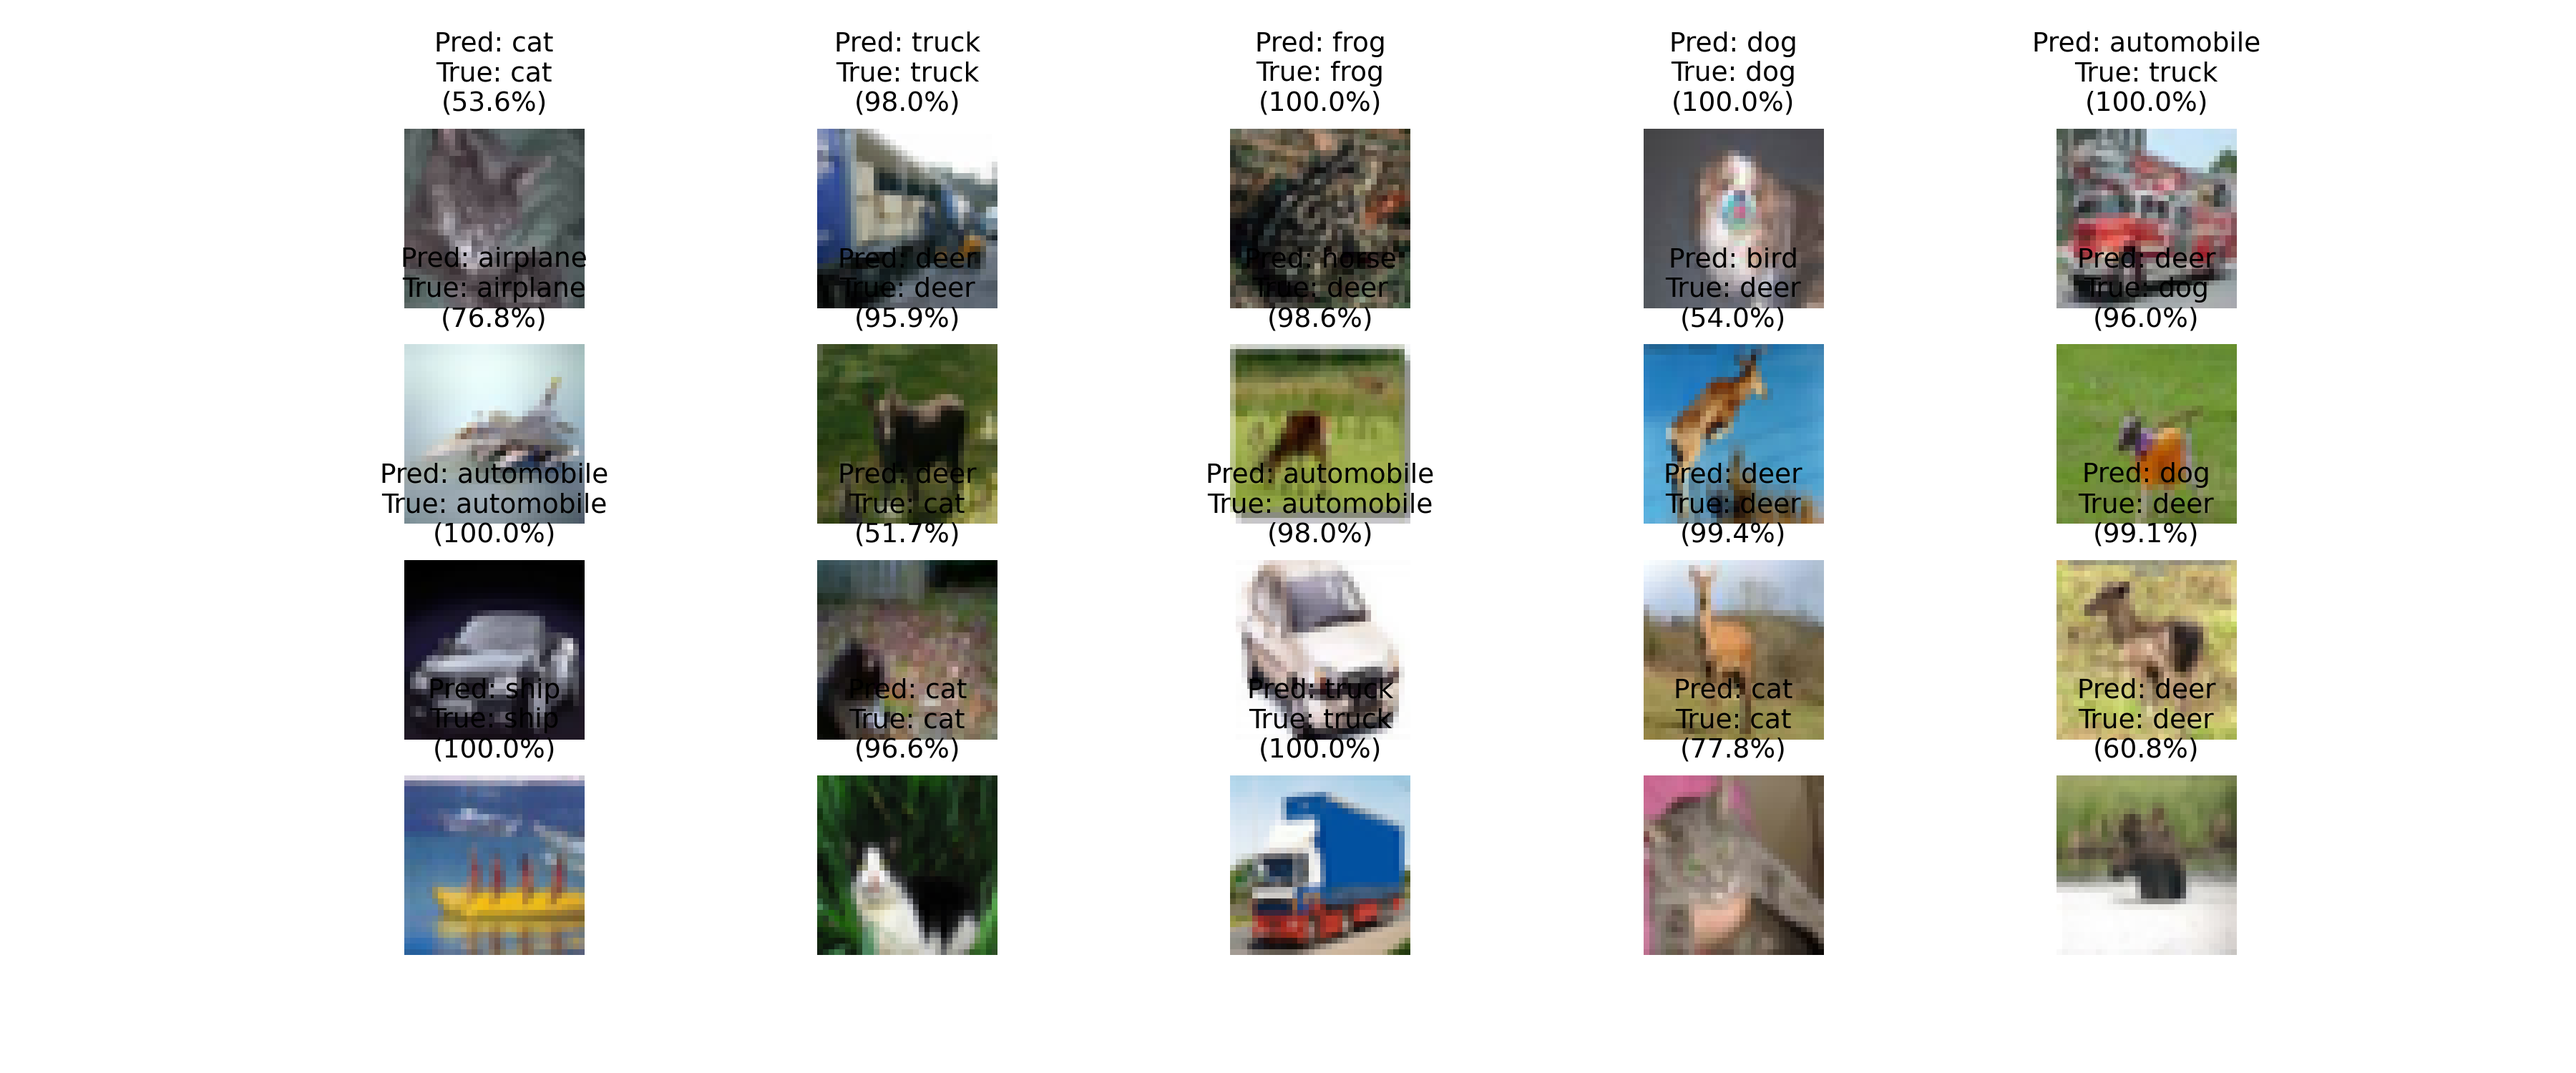
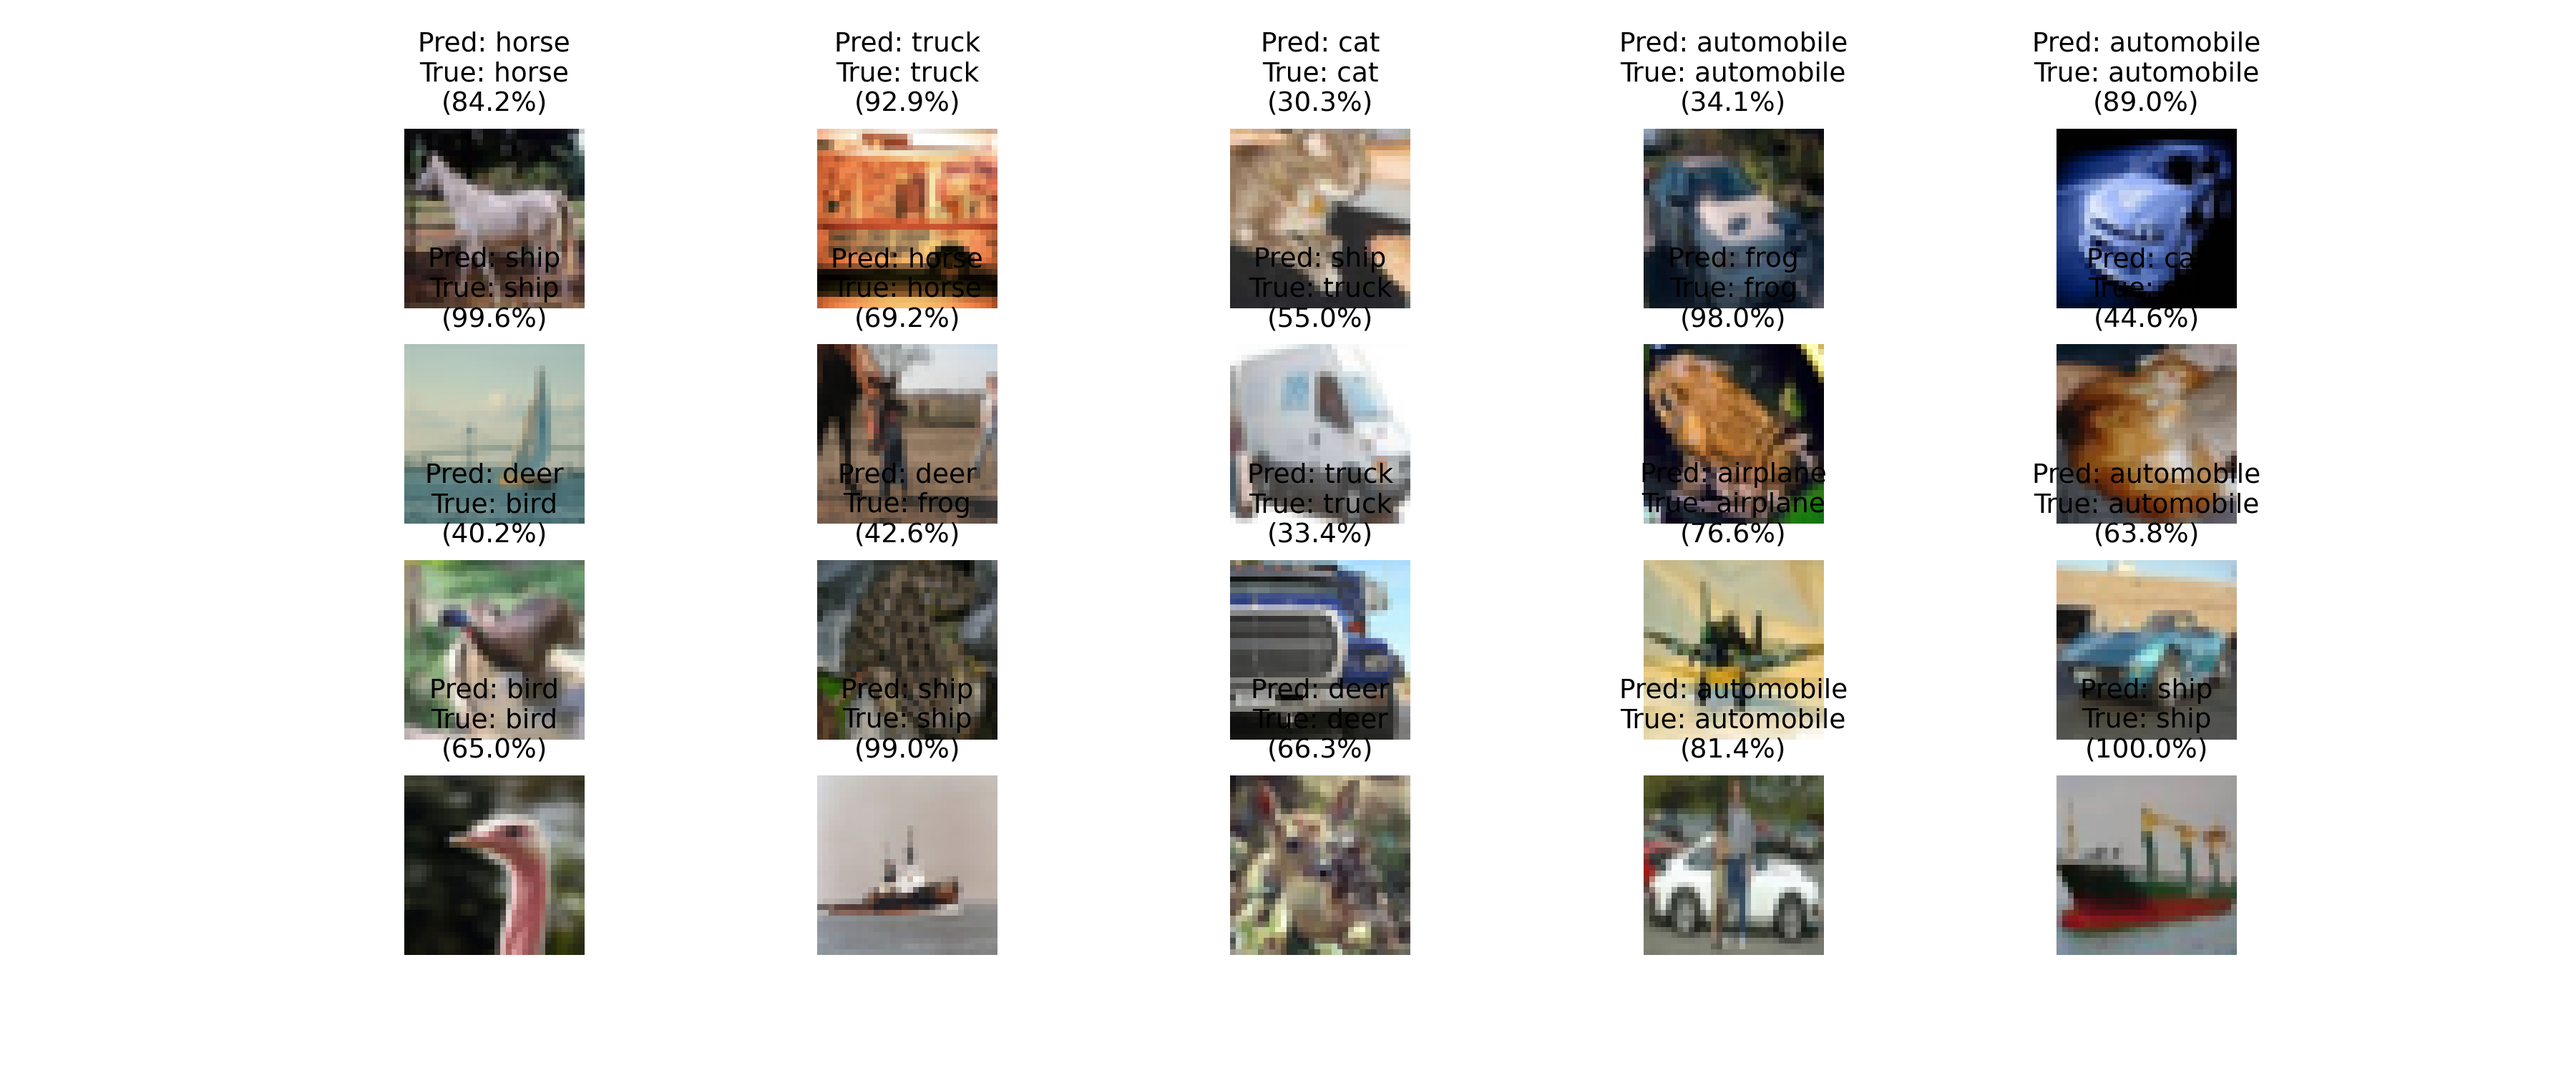
detection-validation after traning

diff --git a/vision.py b/vision.py
@@ -8,6 +8,7 @@ from torchvision.transforms import ToTensor
 import matplotlib.pyplot as plt 
 from timeit import default_timer as timer 
 from tqdm import tqdm
+import argparse
 
 
 class Model_image(nn.Module):
@@ -17,7 +18,7 @@ class Model_image(nn.Module):
         super().__init__()
         
         
-        self.conv_1 = nn.Sequential(
+        conv_1 = nn.Sequential(
             nn.Conv2d(in_channels=3,out_channels=32,
                       kernel_size=3,
                       stride=1,
@@ -65,7 +66,7 @@ class Model_image(nn.Module):
         Linear_4 = nn.Linear(in_features=40,out_features=10)                
         
         self.model = nn.Sequential(
-            self.conv_1,
+            conv_1,
             conv_2,
             conv_3,
             flatern,
@@ -191,7 +192,7 @@ class Trainer:
     def traning_loop(self):
 
         self.train_loss_storage = []
-        # to_numpy  = ToTensor.to_numpy
+        
 
         torch.manual_seed(42)
         # self.train_loss = 0
@@ -230,6 +231,8 @@ class Trainer:
 
             self.train_loss = initial_loss/len(traning_batch_loaded)
             # self.train_loss /= len(traning_batch_loaded)
+            
+            # print(f"Train_loss at each batch:{self.train_loss:.2f}")
             
         torch.save(self.model.state_dict(),f"Cifar_10.pth")
         print("Model_params saved successfully.")
@@ -309,7 +312,7 @@ class Trainer:
         loss = 0
         accuracy =0
         
-        # _test_data_loaded = self.data.data_loading()
+    
         _,test_batch_loaded = self.data.data_loading()
         
         self.model.eval()
@@ -342,8 +345,8 @@ class Trainer:
 
 
 # trail_y = Trainer(model=Model_image(),
-#                   data=Data_prepare(batch_size=64),
-#                   traning_epoch=30)
+#                   data=Data_prepare(batch_size=32),
+#                   traning_epoch=300)
 # print(trail_y.eval_model())
 
 
@@ -358,19 +361,19 @@ trail_z.load_state_dict(params)
 trail_z.eval()
 
 
-# torch.random.manual_seed(42)
-
 data_prep = Data_prepare(batch_size=32)
 _, test_batch_loaded = data_prep.data_loading()
 
 classes_names = data_prep.test_download.classes
 image,label = next(iter(test_batch_loaded))
-image, label = image.to(trail_z.model[0][0].weight.device), label.to(trail_z.model[0][0].weight.device) 
+image, label = image.to(trail_z.model[0][0].weight.device), label.to(trail_z.model[0][0].weight.device)  
 
 with torch.inference_mode():
     raw_output = trail_z.model(image)
     probability = raw_output.softmax(dim=1) 
+    # print(probability)
     predictions = probability.argmax(dim=1) 
+    # print(predictions)
     
  
 plt.figure(figsize=(12, 5))
@@ -382,10 +385,41 @@ for i in range(20):
 
     plt.subplot(4, 5, i + 1)
     plt.imshow(img)
-    plt.axis("off")
+    plt.axis("off") 
     plt.title(f"Pred: {pred_label}\nTrue: {true_label}\n({conf*100:.1f}%)", fontsize=9)
-    plt.savefig(f"predictions_epoch_{30}.png", dpi=300)
+    plt.savefig(f"predictions_epoch_{300}.png", dpi=300)
 
 plt.tight_layout()
+# plt.legend(loc='upper right', fontsize=10)
 plt.show()
 print(classes_names)
+
+
+
+# if __name__ == "main":
+#     parser = argparse.ArgumentParser()
+#     parser.add_argument("--mode",choices=["train","eval"],default="eval")
+#     parser.add_argument("--epochs")
+#     parser.add_argument("--batch_size")
+#     parser.add_argument("--param_files",default="Cifar_10.pth")
+#     parser.add_argument("--vizulization",default=20)
+#     args = parser.parse_args()
+
+#     data_prepz = Data_prepare(batch_size=args.batch_size)
+    
+#     if args.mode == "train":
+#         Trainer(model=Model_image(),
+#                 data=data_prepz,
+#                 traning_epoch=args.epochs)
+        
+#     else:
+        
+        
+        
+        
+    
+    
+        
+    
+    
+   

diff --git a/run.py b/run.py
@@ -1,0 +1,4 @@
+if __name__ =="main":
+    
+    
+    pass
